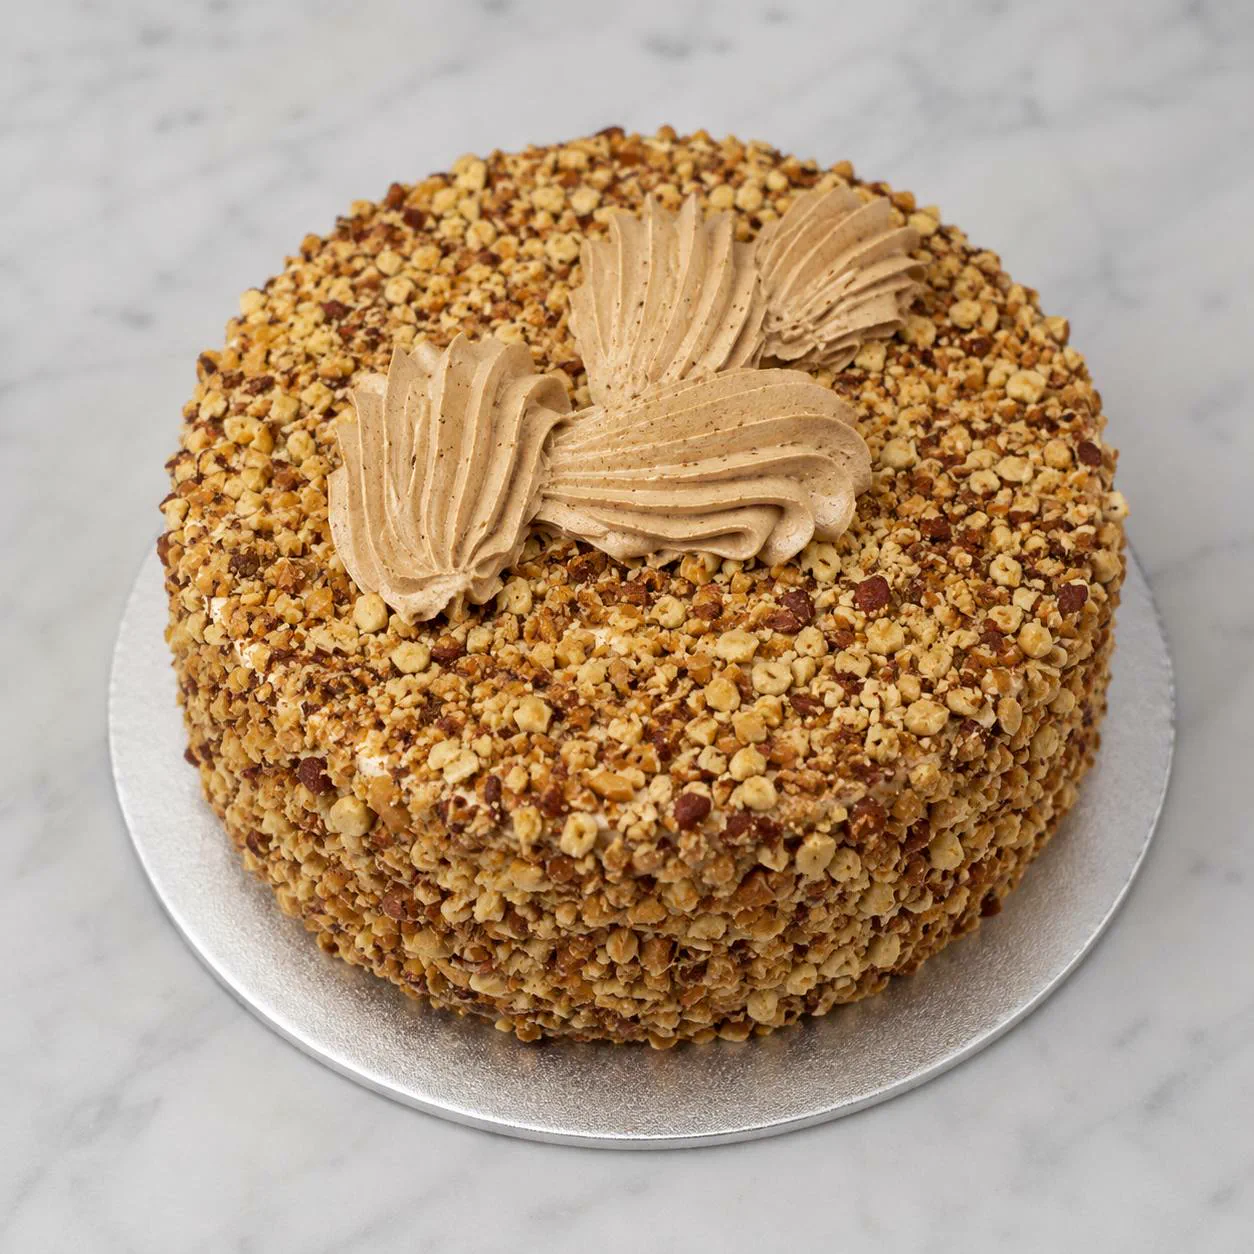
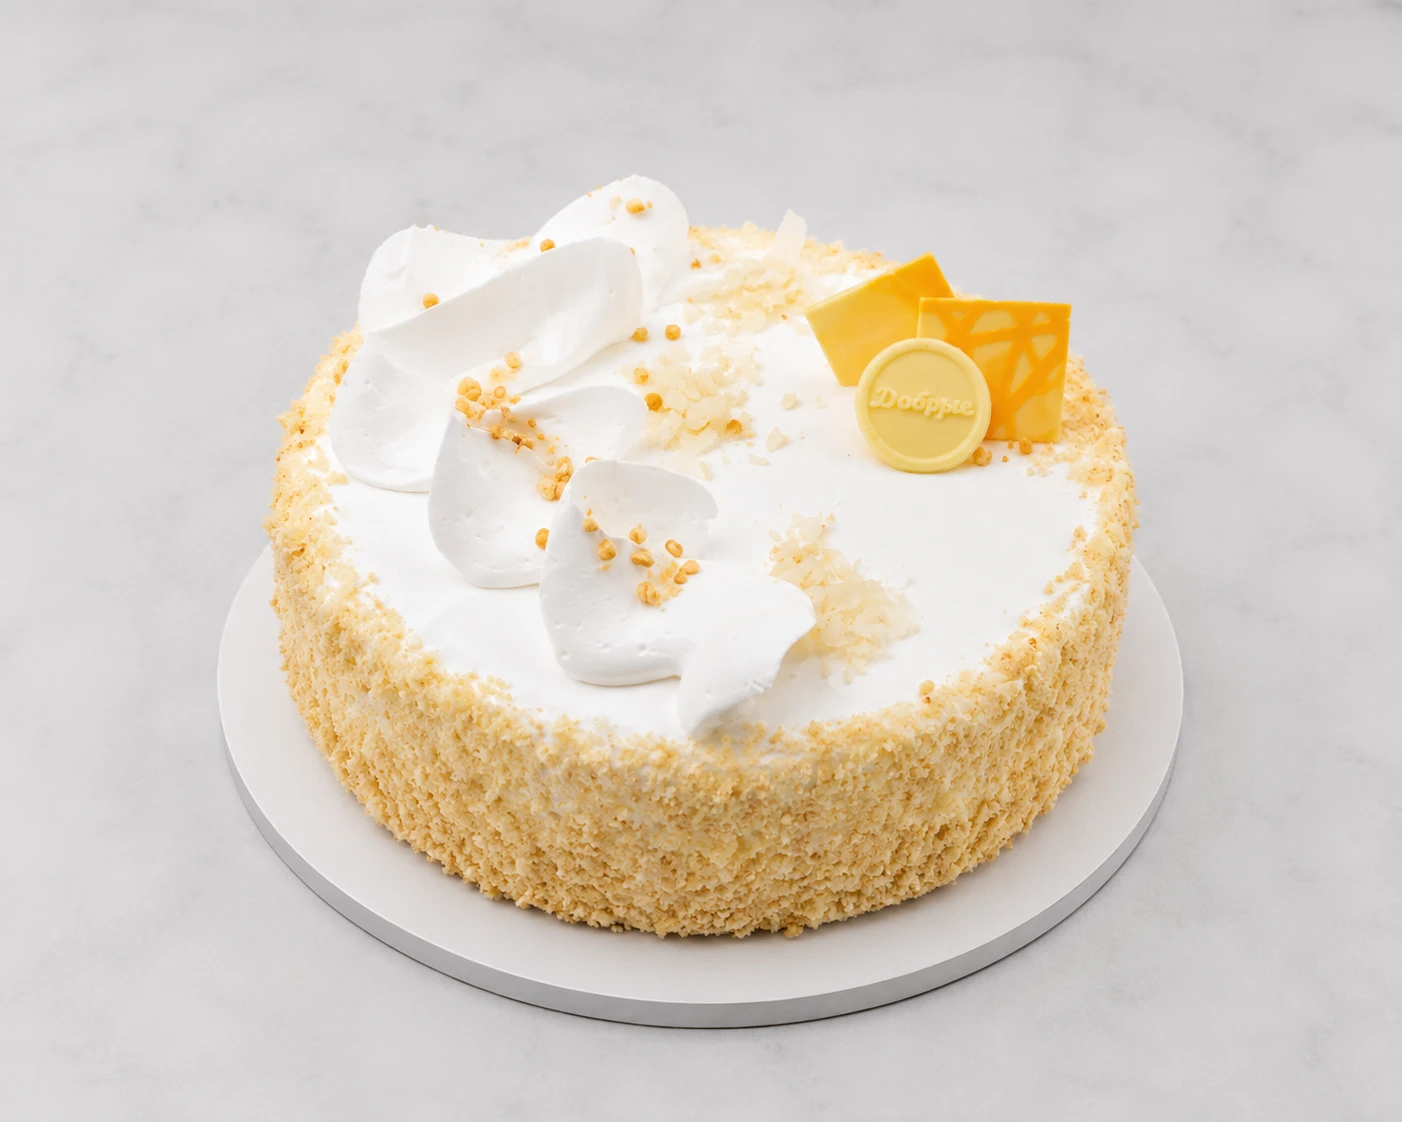
Исправлено фото торта «Домашний» (белый бисквит со сливками), убран разрез
- domashniy-whole.webp заменён на правильное фото (home_cake.png)
- Удалён неверный domashniy-cut.webp, hasCut = false
- Обновлён каталог изображений

diff --git a/src/products-data.js b/src/products-data.js
@@ -32,7 +32,7 @@ window.PRODUCTS_DATA = {
           }
         ],
         "hasWhole": true,
-        "hasCut": true
+        "hasCut": false
       },
       {
         "title": "Каприз",